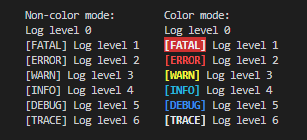
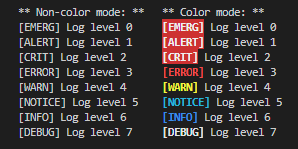
update readme and library vars

diff --git a/src/index.ts b/src/index.ts
@@ -19,12 +19,13 @@ interface LogOptions {
 	fileOptions?: false | FileOptions
 }
 
+var ansis = null
+var fs = null
+var path = null
+
 export class KindLogs {
 	options: Record<string, any>
-	logMethods = ["debug", "log", "warn", "error", "trace"]
-	colorLib: any = null
-	fsLib: any = null
-	pathLib: any = null
+	logMethods = ["debug", "info", "log", "warn", "error", "trace"]
 	levelColors: any = null
 	displayLevelStrings = ["[EMERG]", "[ALERT]", "[CRIT]", "[ERROR]", "[WARN]", "[NOTICE]", "[INFO]", "[DEBUG]"]
 	constructor(opts?: LogOptions) {
@@ -53,13 +54,13 @@ export class KindLogs {
 	}
 	enableColor = () => {
 		// enable console colors on the class
-		this.colorLib = require("ansis")
-		this.levelColors = [this.colorLib.bold.black.bgRed, this.colorLib.bold.white.bgRed, this.colorLib.bold.white.bgRed, this.colorLib.bold.red, this.colorLib.bold.yellow, this.colorLib.bold.cyan, this.colorLib.bold.blue, this.colorLib.bold.white]
+		ansis = require("ansis")
+		this.levelColors = [ansis.bold.black.bgRed, ansis.bold.white.bgRed, ansis.bold.white.bgRed, ansis.bold.red, ansis.bold.yellow, ansis.bold.cyan, ansis.bold.blue, ansis.bold.white]
 		this.options.color = true
 	}
 	disableColor = () => {
 		// disable console colors on the class
-		this.colorLib = null
+		ansis = null
 		this.levelColors = null
 		this.options.color = false
 	}
@@ -73,8 +74,8 @@ export class KindLogs {
 			...this.options.fileOptions,
 		}
 		// load required libraries for file writing
-		this.fsLib = require("node:fs")
-		this.pathLib = require("node:path")
+		fs = require("node:fs")
+		path = require("node:path")
 
 		// create logs directory
 		if (this.options.fileOptions.forceCreateDir) {
@@ -85,13 +86,13 @@ export class KindLogs {
 		this.options.fileOptions = false
 	}
 	createDirIfNotExists = (dir: string): void => {
-		if (!this.fsLib.existsSync(dir)) {
+		if (!fs.existsSync(dir)) {
 			// dir does not exist
-			this.fsLib.mkdirSync(dir)
+			fs.mkdirSync(dir)
 		}
 		return
 	}
-	getStackTrace(err?: Error | string): Array<string> {
+	getStackTrace(err?: any): Array<string> {
 		var error: Error | undefined
 		// console.log(typeof(err))
 		if (typeof err == "string") {
@@ -135,7 +136,7 @@ export class KindLogs {
 				const displayLevelText = this.displayLevelStrings[level]
 				const isError = level <= 3
 				const pathElements = []
-				const filename = this.pathLib.resolve(this.options.fileOptions.dir, this.options.fileOptions.name + (isError ? ".error" : ".debug") + "." + this.options.fileOptions.ext)
+				const filename = path.resolve(this.options.fileOptions.dir, this.options.fileOptions.name + (isError ? ".error" : ".debug") + "." + this.options.fileOptions.ext)
 				const date = new Date().toLocaleString()
 				var lineString = `[${date}] ${displayLevelText} `
 				if (method == "error" || method == "warn") {
@@ -156,7 +157,7 @@ export class KindLogs {
 					lineString += `${args.join(", \n")} \n`
 				}
 
-				this.fsLib.appendFileSync(filename, lineString)
+				fs.appendFileSync(filename, lineString)
 			}
 		}
 		return

diff --git a/test/test.js b/test/test.js
@@ -6,8 +6,10 @@ const logs = new KindLogs({
     color: true, // color mode, default is false
     fileOptions: {
         dir: "test/logs",
-        name: "kindlogs"
-    }
+        name: "kindlogs",
+        logLevel: 3
+    },
+    
 })
 
 async function run() {
@@ -18,7 +20,8 @@ async function run() {
     logs.error(3, "A sample string Error happened, disregard.")
     logs.warn(4, "Warning sample")
     logs.debug(7, "logs.debug() test")
-    logs.trace(7, "Trace sample")
+    logs.trace(7, "Trace sample", " With multiple args")
+    logs.log(7, "Normal log sample")
     console.log("** End log method tests **")
     
     console.log("** Non-color mode: **")

diff --git a/README.md b/README.md
@@ -1,5 +1,5 @@
 # KindLogs
-A simple multi-level logging library for node.js, colors optional.
+A small and simple multi-level logging library for node.js, colors optional.
 
 ![Screenshot of the console output created by KindLogs](_docs/screenshot.png)
 
@@ -7,25 +7,87 @@ A simple multi-level logging library for node.js, colors optional.
 ```sh
 npm i kindlogs
 ```
-If you would like to use color mode, the `ansis` library is required:
-```sh
-npm i ansis
-```
+
 # Getting Started 
-KindLogs will only log levels `logLevel` or below. By default this is `3` (Warn), so only logs at level 3 or below will execute:
+KindLogs will only log levels `options.logLevel` or below. By default this is `3` (error), so only logs at level 3 or below (more severe) will display:
 ```JS
 const { KindLogs } = require('kindlogs');
 
-const logs = new KindLogs({
-  logLevel: 6, // logging level, default is 3
-  color: true // color mode, default is false
-})
+const logs = new KindLogs()
 
 function myFunction() {
-  logs.log(5, 'Log level 5')
+  logs.log(6, 'Log level 6 (info)')
+  logs.log(3, 'Log level 3 (error)')
 }
 
 myFunction()
-// Console output:
-// [DEBUG] Log level 5
 ```
+### Console output:
+```bash
+[ERROR] Log level 3 (error)
+```
+
+# Color mode
+In order to keep the library small, if you would like to use color mode, the `ansis` library must be installed separately:
+```bash
+npm i ansis
+```
+To enable color logs in console, spawn `KindLogs` with the `color` option:
+
+```js
+const logs = new KindLogs({
+  color: true
+})
+```
+
+# Setting log-level
+KindLogs uses numeric log-levels from `0-7`, following the Syslog standard. To set the log level, spawn `KindLogs` with the `logLevel` option:
+```js
+const logs = new KindLogs({
+  logLevel: 7
+})
+
+function myFunction() {
+  logs.log(6, 'Log level 6 (info)')
+  logs.log(3, 'Log level 3 (error)')
+}
+
+myFunction()
+```
+In this example, all levels will be displayed:
+```bash
+[INFO] Log level 6 (info)
+[ERROR] Log level 3 (error)
+```
+
+# Logging to files
+KindLogs enables easy logging to files. In order to log to files, configure `KindLogs` with the `fileOptions` option: 
+```js
+const logs = new KindLogs({
+    fileOptions: {
+      dir: "test/logs",
+      name: "kindlogs"
+    }
+})
+```
+The above configuration will result in the creation of the `test/logs/` directory. By default, logs will append to the `<name>.error.log` file if the level is 3 or below, and `<name>.debug.log` for all others, in the following format:
+
+```log
+[5/26/2024, 12:52:42 AM] [EMERG] Log level 0 
+[5/26/2024, 12:52:42 AM] [ALERT] Log level 1 
+[5/26/2024, 12:52:42 AM] [CRIT] Log level 2 
+[5/26/2024, 12:52:42 AM] [ERROR] Log level 3
+...
+```
+## Setting file-specific log-level
+File logging can be run at a different level than console logging. In order to achieve this, configure the `fileOptions` object with a `logLevel` parameter:
+```js
+const logs = new KindLogs({
+    fileOptions: {
+      dir: "test/logs",
+      name: "kindlogs",
+      logLevel: 7
+    }
+})
+```
+Unless specified in the `fileOptions` object, the file-specific log level will be identical to the global `logLevel` option.

diff --git a/CHANGELOG.md b/CHANGELOG.md
@@ -1,7 +1,8 @@
 # Version 3.0.0
 - Major update, if you happened to be using 2.0.0, code will need changes in order to work.
 - Converted to TypeScript
-- Shift usage towards being a multi-level logger that follows the [Syslog](https://en.wikipedia.org/wiki/Syslog) standard
+- Shift usage towards being a multi-level logger that uses the [Syslog](https://en.wikipedia.org/wiki/Syslog) standard levels
+- Add optional logging to files
 - Added `CHANGELOG.md`
 
 
